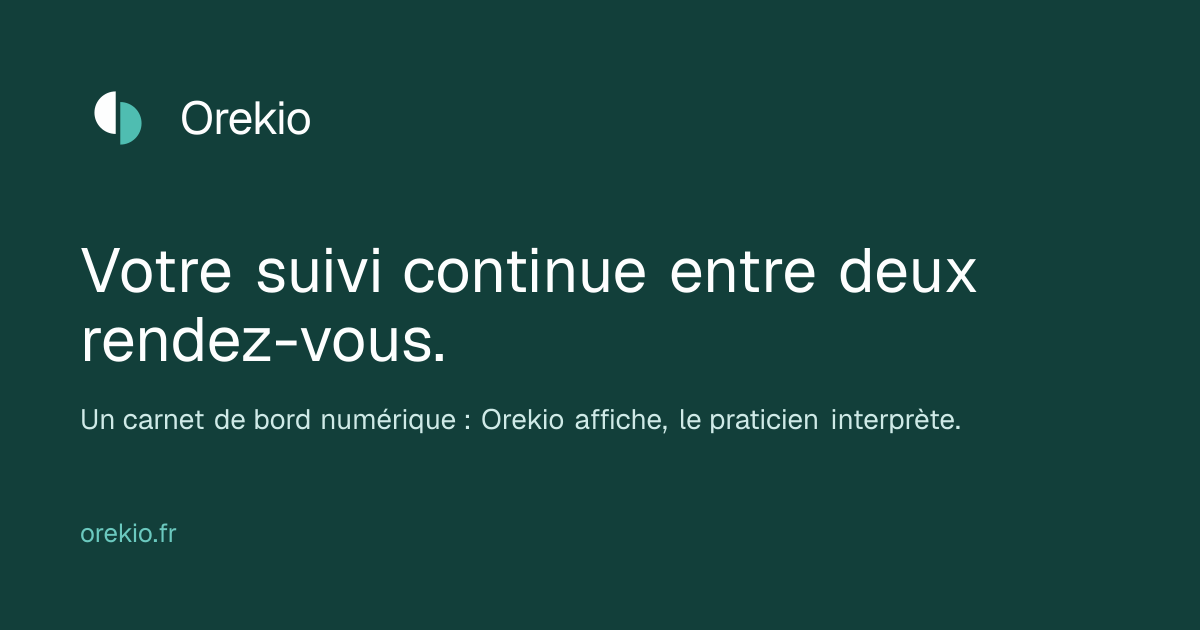
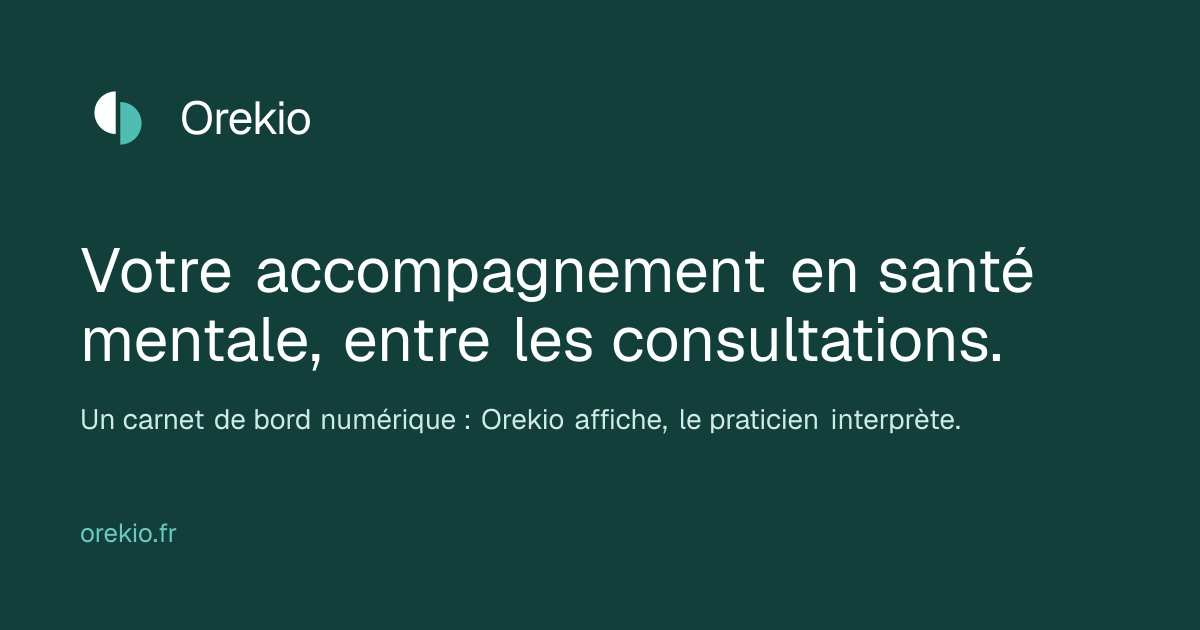
content(accueil): nouvelle accroche « Votre accompagnement en santé mentale, entre les consultations » (#100)
Titre de l'accueil fr et en, et image de partage régénérée.

Changed region(s): [[0.2158, 0.3921, 0.8633, 0.4825], [0.0617, 0.5127, 0.8325, 0.573]]

diff --git a/src/i18n/dictionaries/fr.ts b/src/i18n/dictionaries/fr.ts
@@ -50,7 +50,7 @@ export const fr = {
 
   home: {
     eyebrow: "Votre armoire thérapeutique numérique",
-    title: "Votre suivi continue entre deux rendez-vous.",
+    title: "Votre accompagnement en santé mentale, entre les consultations.",
     lead: "Construisez un plan de soins personnalisé pour votre patient, en débloquant un à un les modules adaptés à ses besoins.",
     description:
       "Les outils couramment utilisés en psychiatrie et santé mentale, appuyés sur la littérature scientifique : chaque module cite ses sources. Exercices de TCC, fiches de psychoéducation, agenda du sommeil, questionnaires, rappel du traitement, plan de sécurité : vous les confiez, votre patient s'en sert au quotidien, et vous en reparlez ensemble en consultation.",

diff --git a/src/i18n/dictionaries/en.ts b/src/i18n/dictionaries/en.ts
@@ -40,7 +40,7 @@ export const en: Dictionary = {
 
   home: {
     eyebrow: "Your digital therapeutic toolkit",
-    title: "Your follow-up continues between appointments.",
+    title: "Your mental health support, between appointments.",
     lead: "Build a personalised care plan for your patient by unlocking, one by one, the modules suited to their needs.",
     description:
       "The tools commonly used in psychiatry and mental health, grounded in the scientific literature: every module cites its sources. CBT exercises, psychoeducation sheets, sleep diary, questionnaires, medication reminders, safety plan: you hand them over, your patient uses them day to day, and you go over them together in consultation.",
